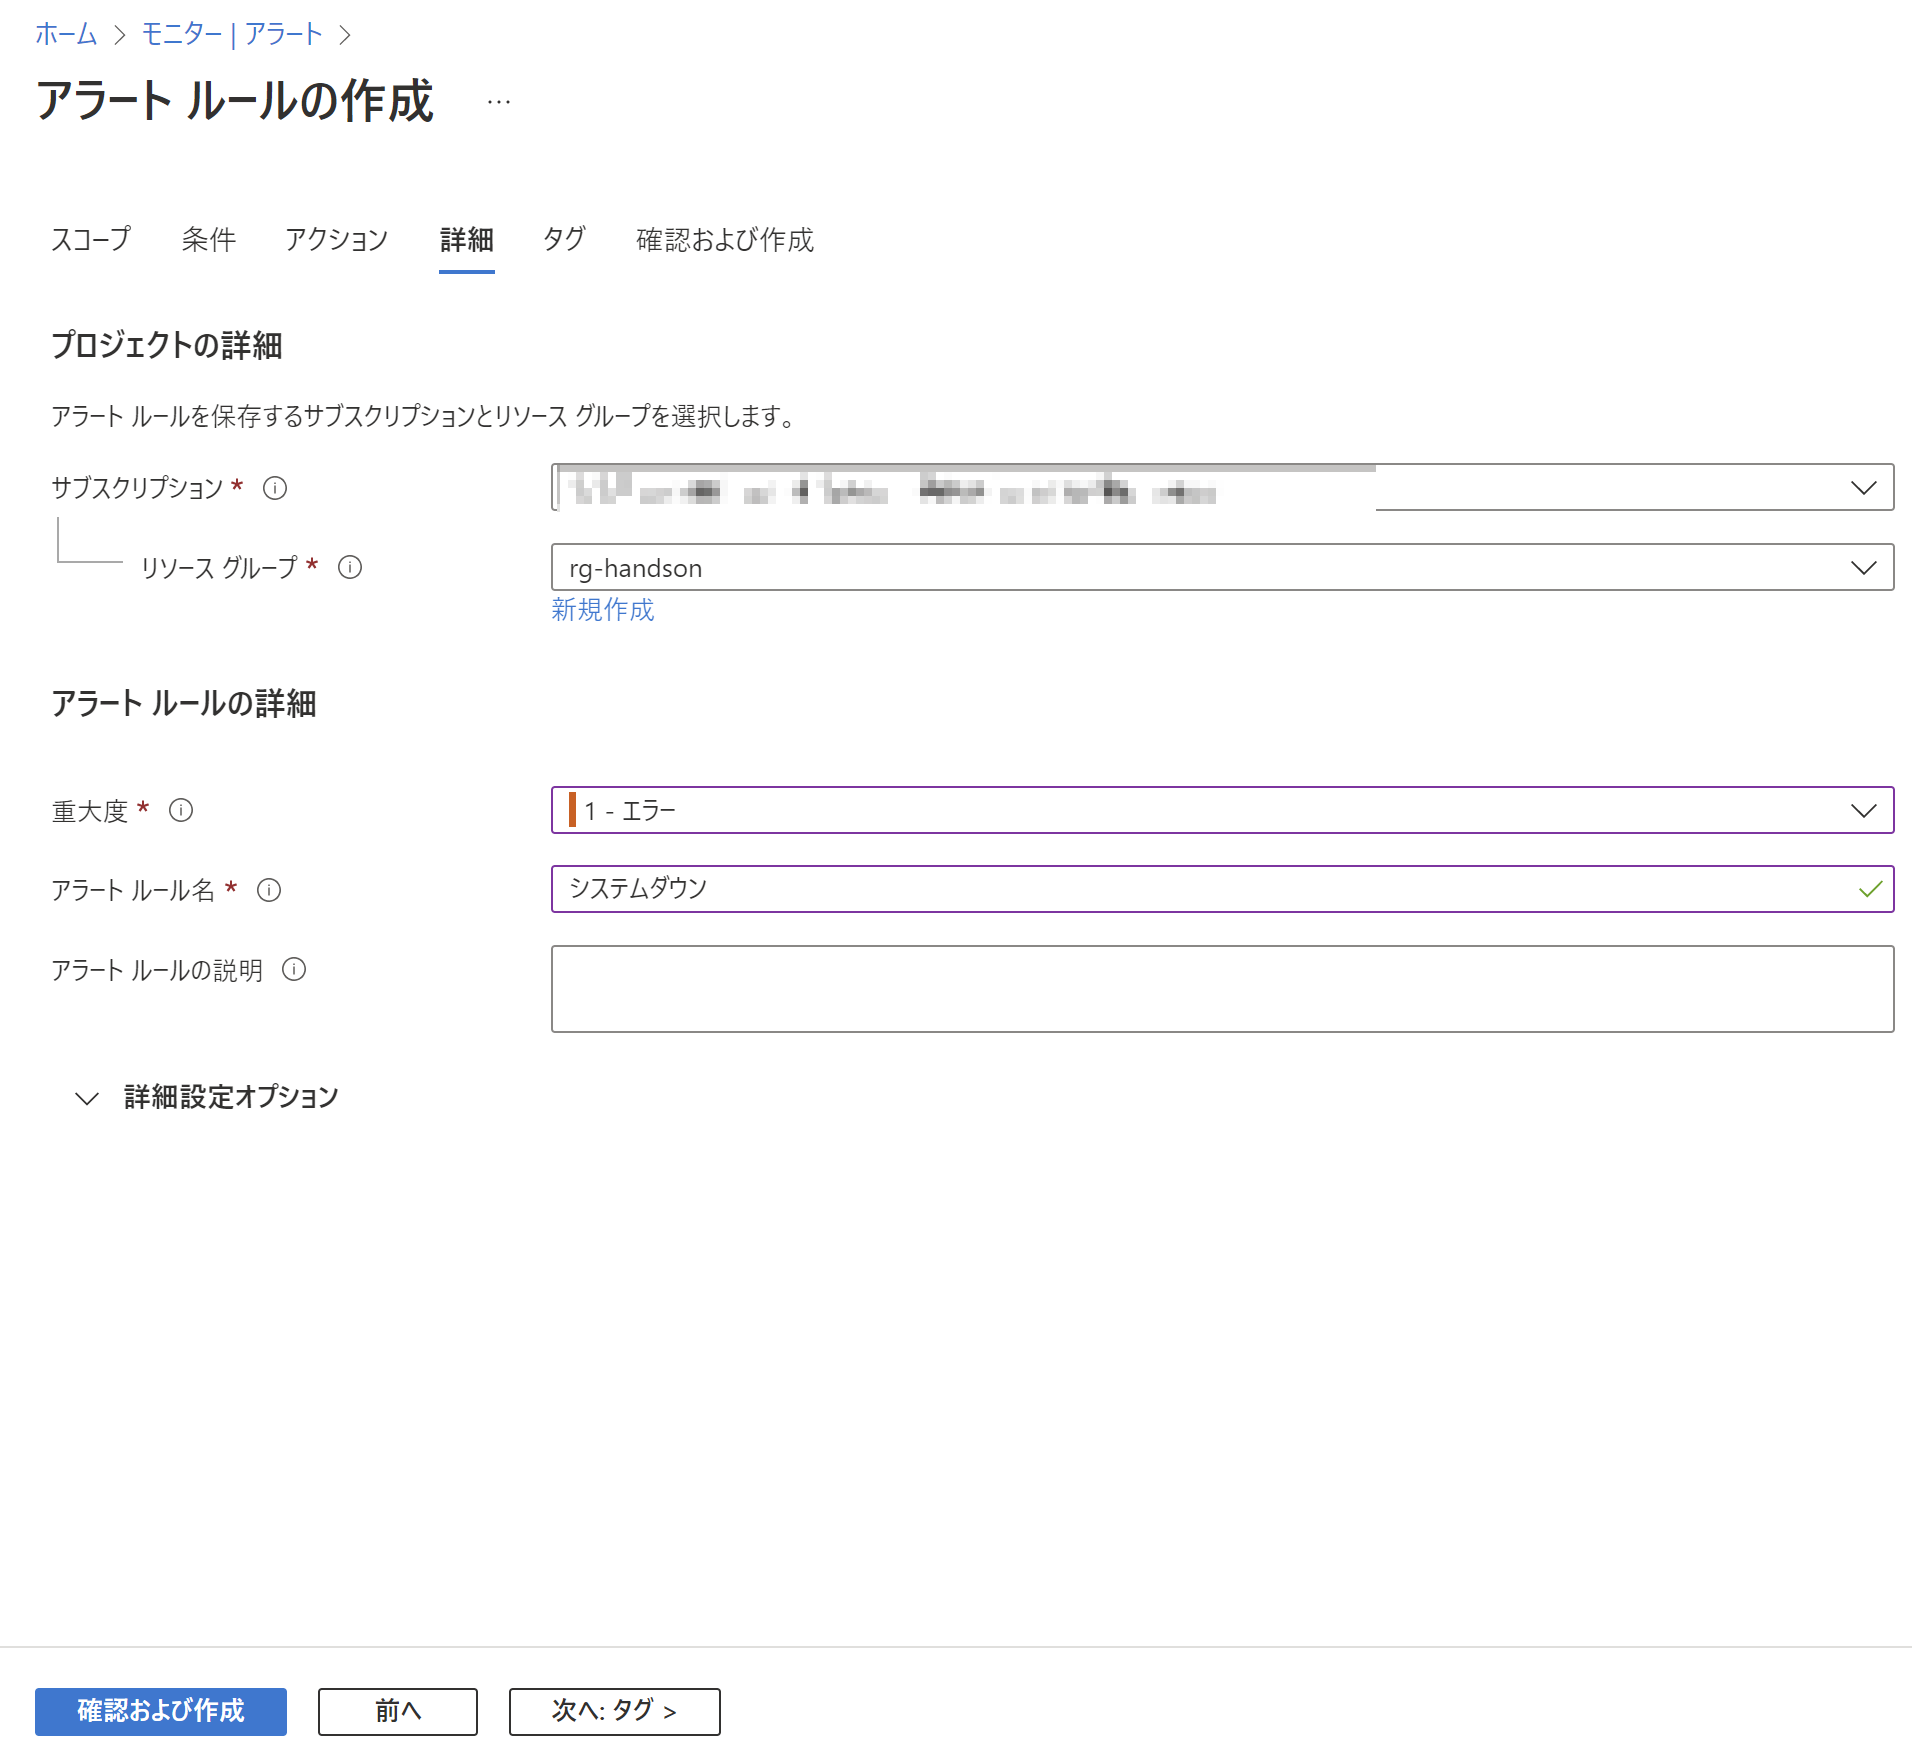
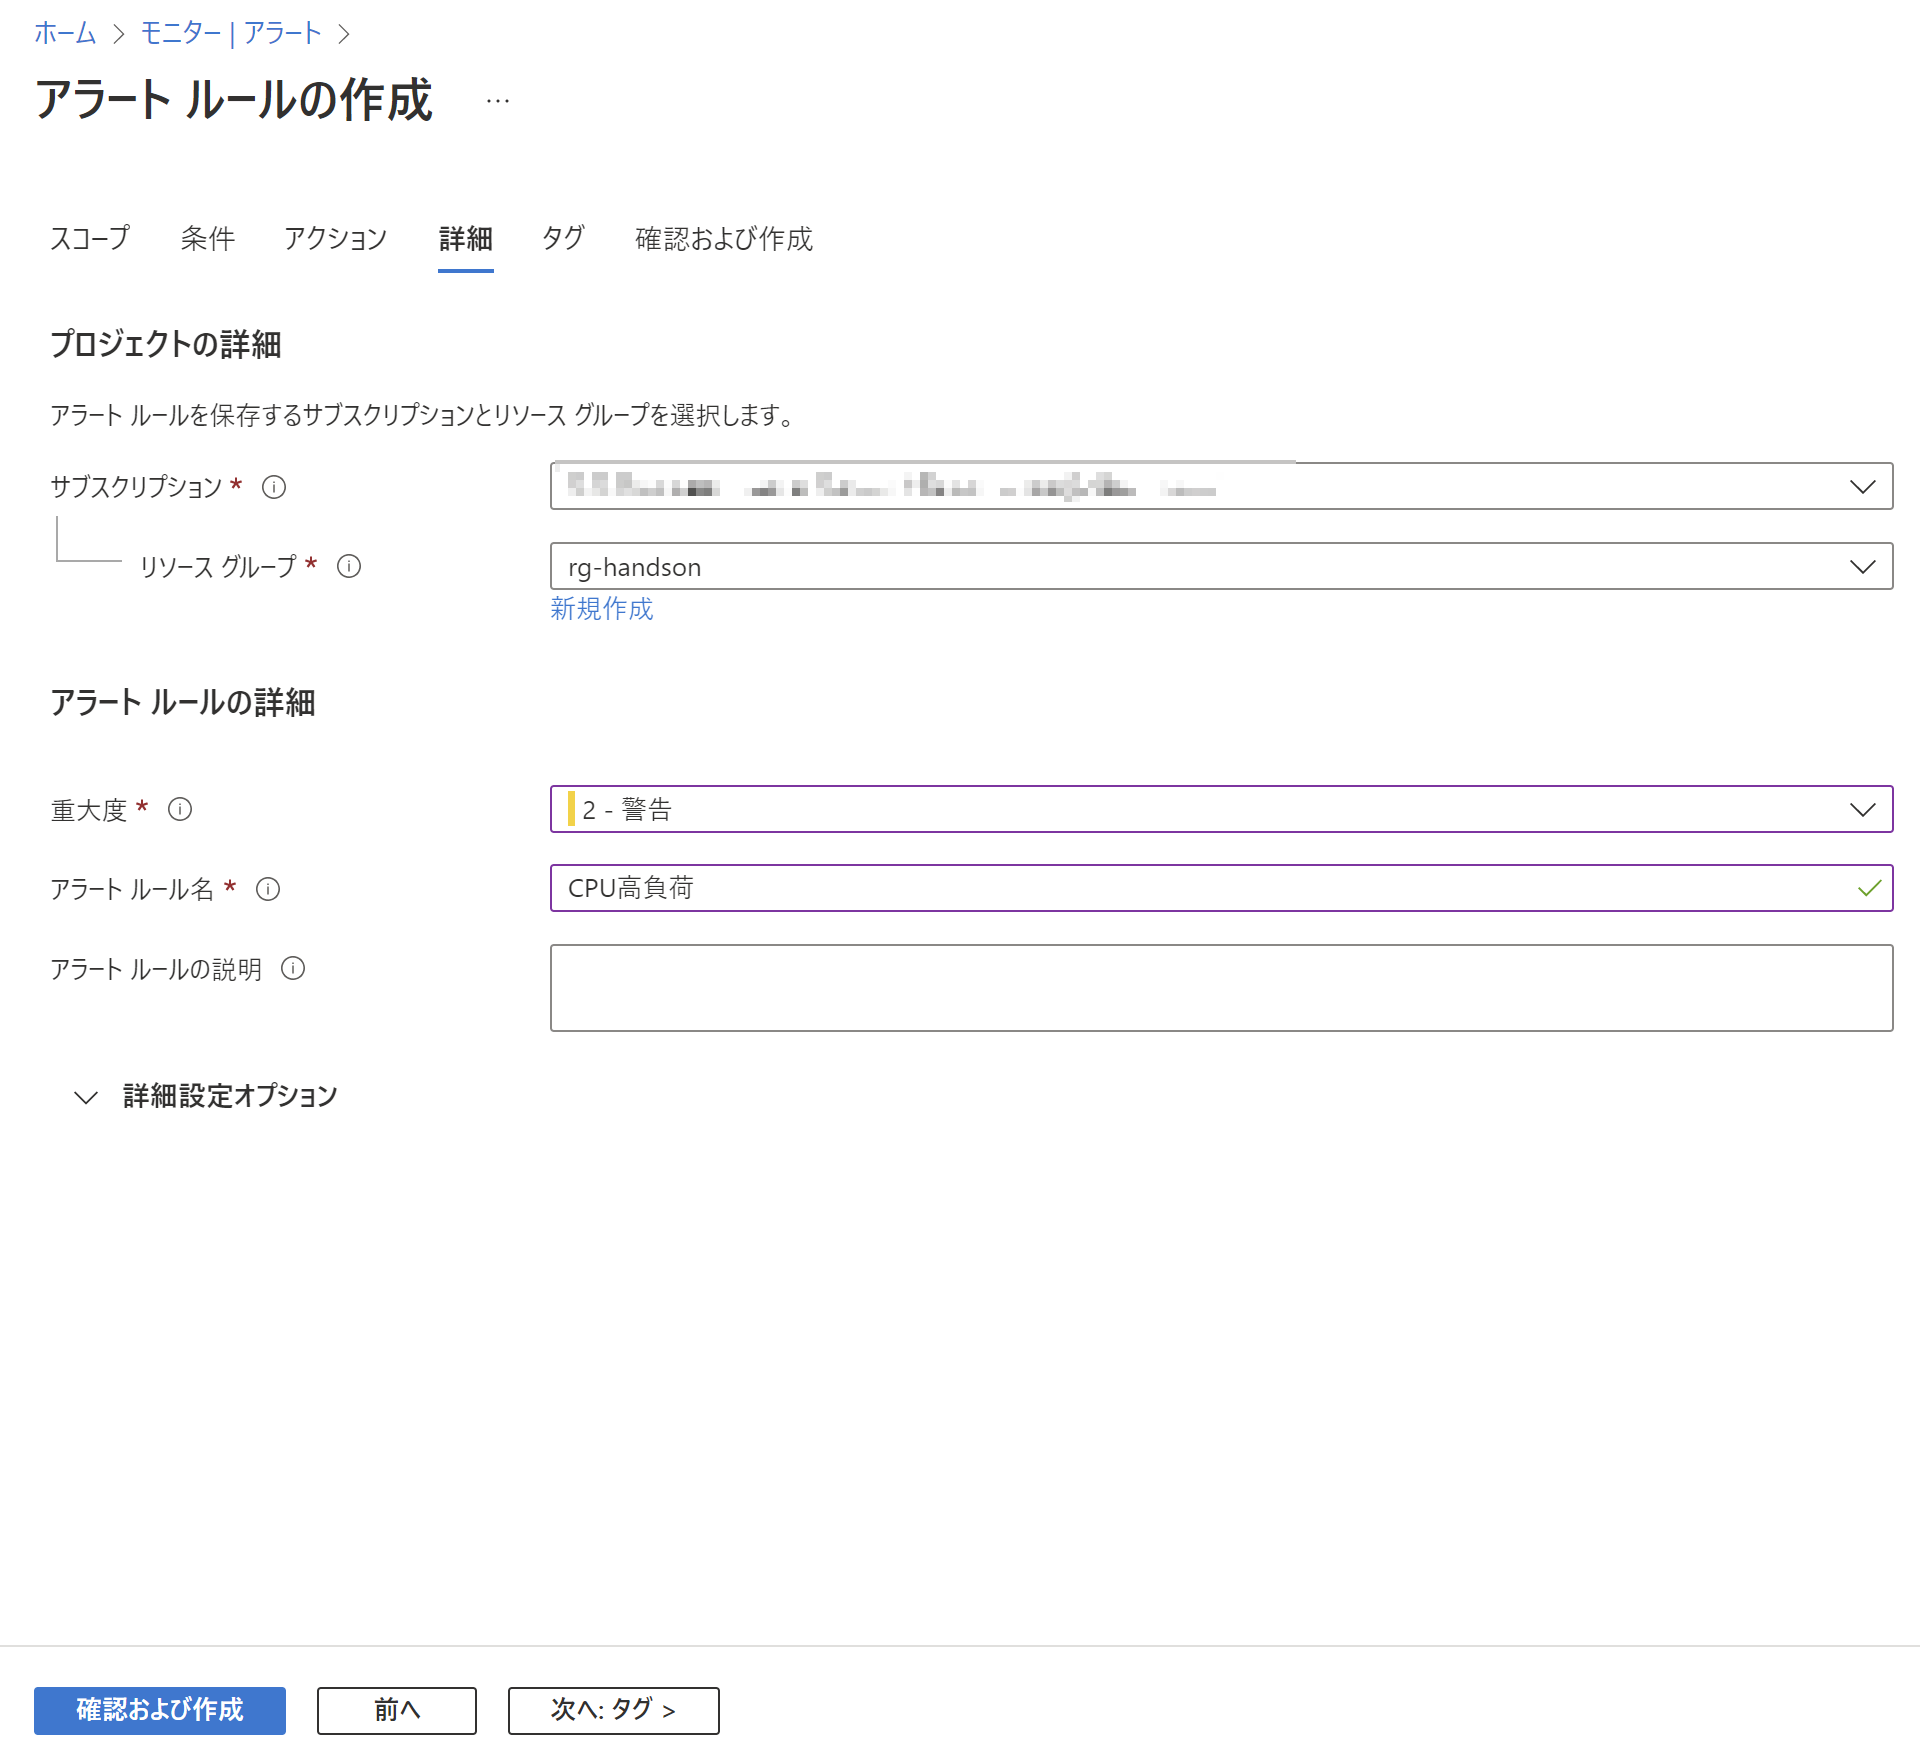
Mod ex6 (#8)
CPU使用率でアラートさせるように修正

diff --git a/docs/handout/exercise06.md b/docs/handout/exercise06.md
@@ -25,7 +25,7 @@
 
     1. 条件
 
-        「シグナルの選択」にて、メトリックの `Heartbeat` を選択
+        「シグナルの選択」にて、メトリックの `% Processor Time` を選択
 
         ![](images/ex06-0103-alert.png)
 
@@ -37,10 +37,10 @@
             * ディメンション値： (作成済の仮想マシン)
         * アラートロジック
             * しきい値： `Static`
-            * 集計の種類： `合計`
-            * 演算子： `次の値以下`
+            * 集計の種類： `平均`
+            * 演算子： `次の値より大きい`
             * 単位： `カウント`
-            * しきい値： `0`
+            * しきい値： `60`
             * 確認する間隔： `1分`
             * 次の時間分の過去データを参照： `5分`
 
@@ -67,6 +67,8 @@
             * 名前： (任意)
 
             * 電子メール： `有効` にして `電子メール` に送信先を設定
+
+            (※) 正しくメール設定できていればアクショングループへ登録された旨のメールが飛ぶ
 
             ![](images/ex06-0107-alert.png)
 
@@ -96,8 +98,17 @@
 
 ## アラートの動作確認
 
-1. 仮想マシンを停止
+1. 仮想マシンにRDP接続して PowerShell で以下のコマンドを実行
+
+        while ($i -ne 0) { echo $i; $i++ }
 
     ![](images/ex06-0201-alert.png)
 
 1. アラートメールが飛んでくることを確認
+
+    ![](images/ex06-0202-alert.png)
+
+1. **メールが確認できたら仮想マシンで実行している PowerShell をそのまま閉じて止める**
+
+    ![](images/ex06-0203-alert.png)
+
